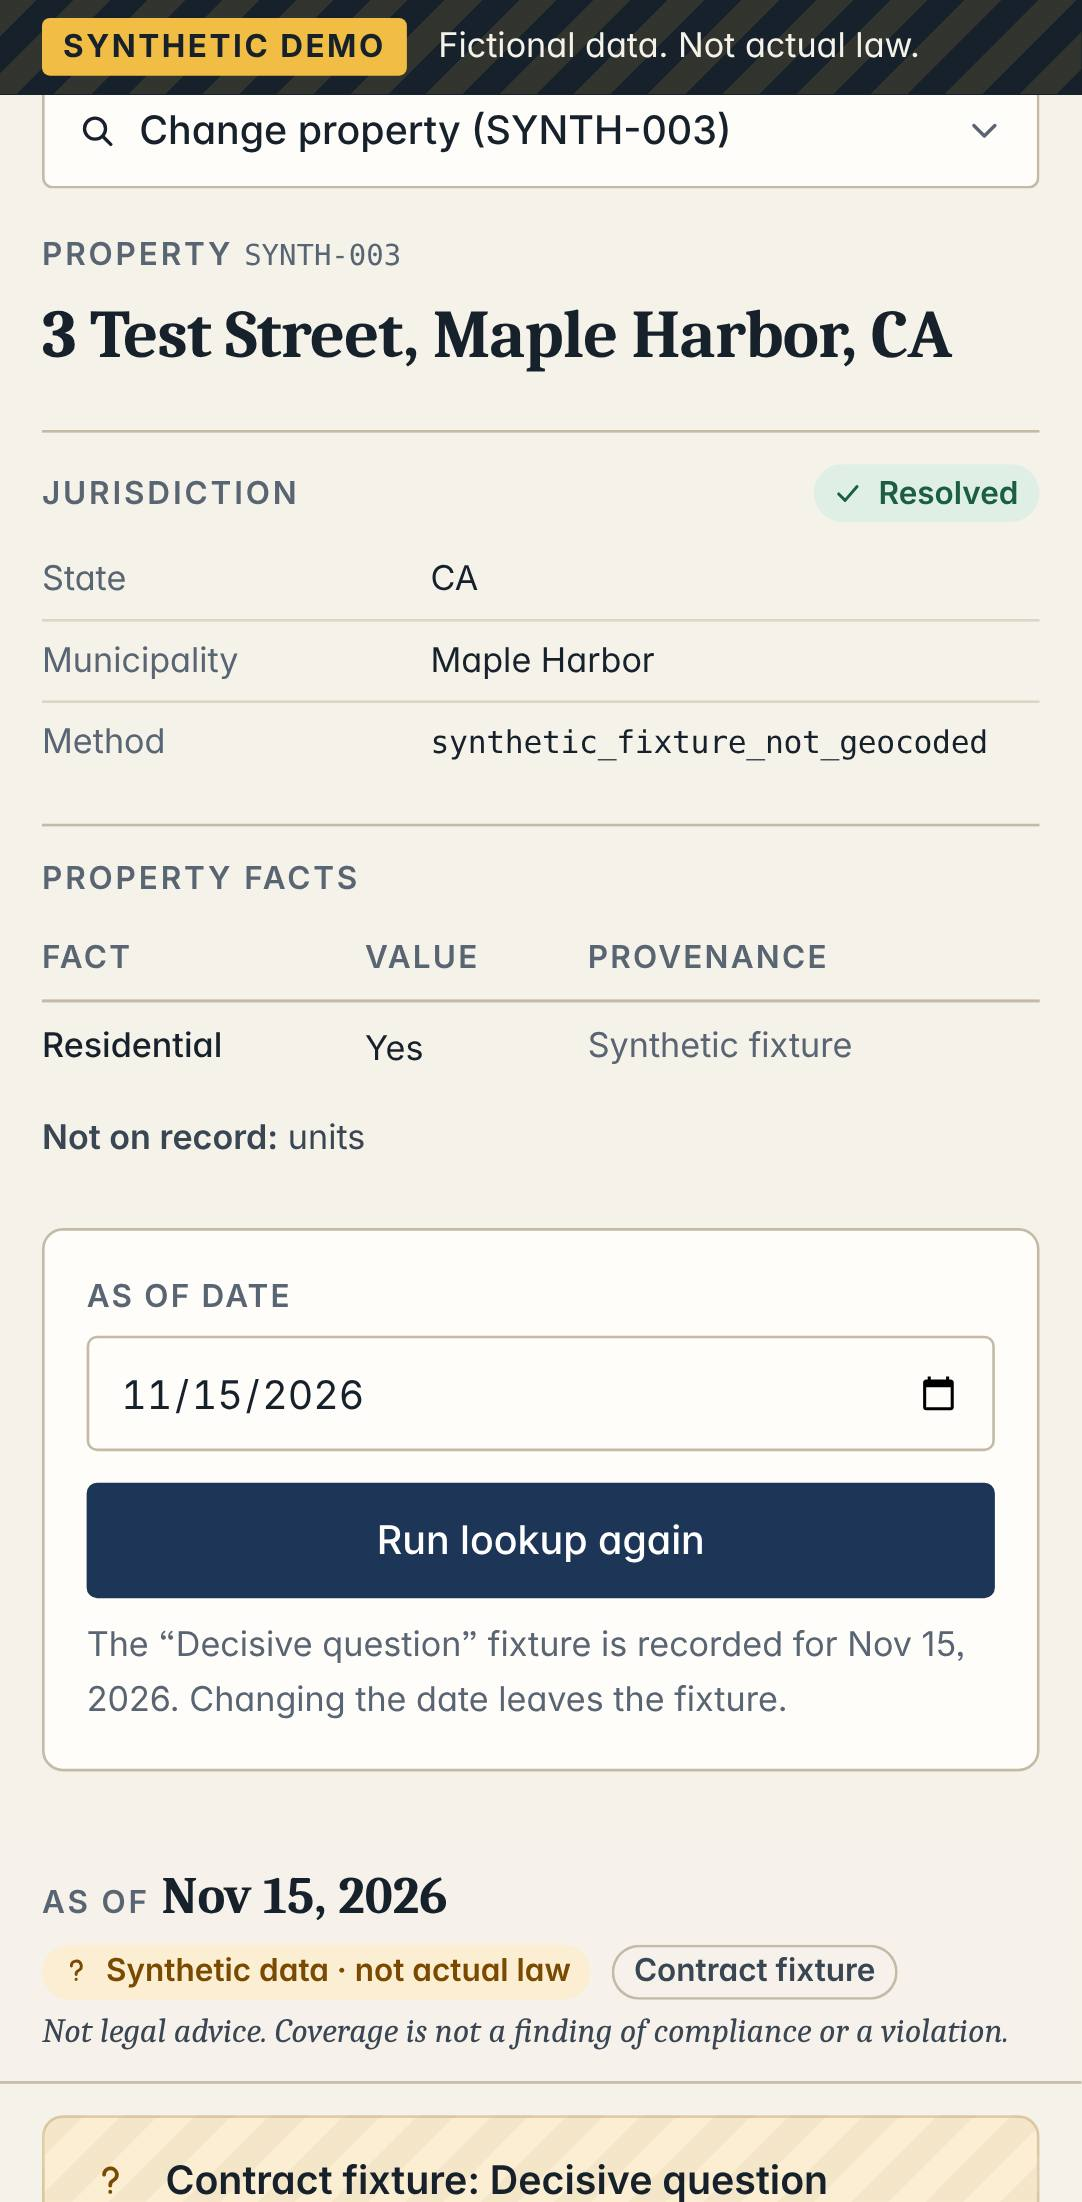
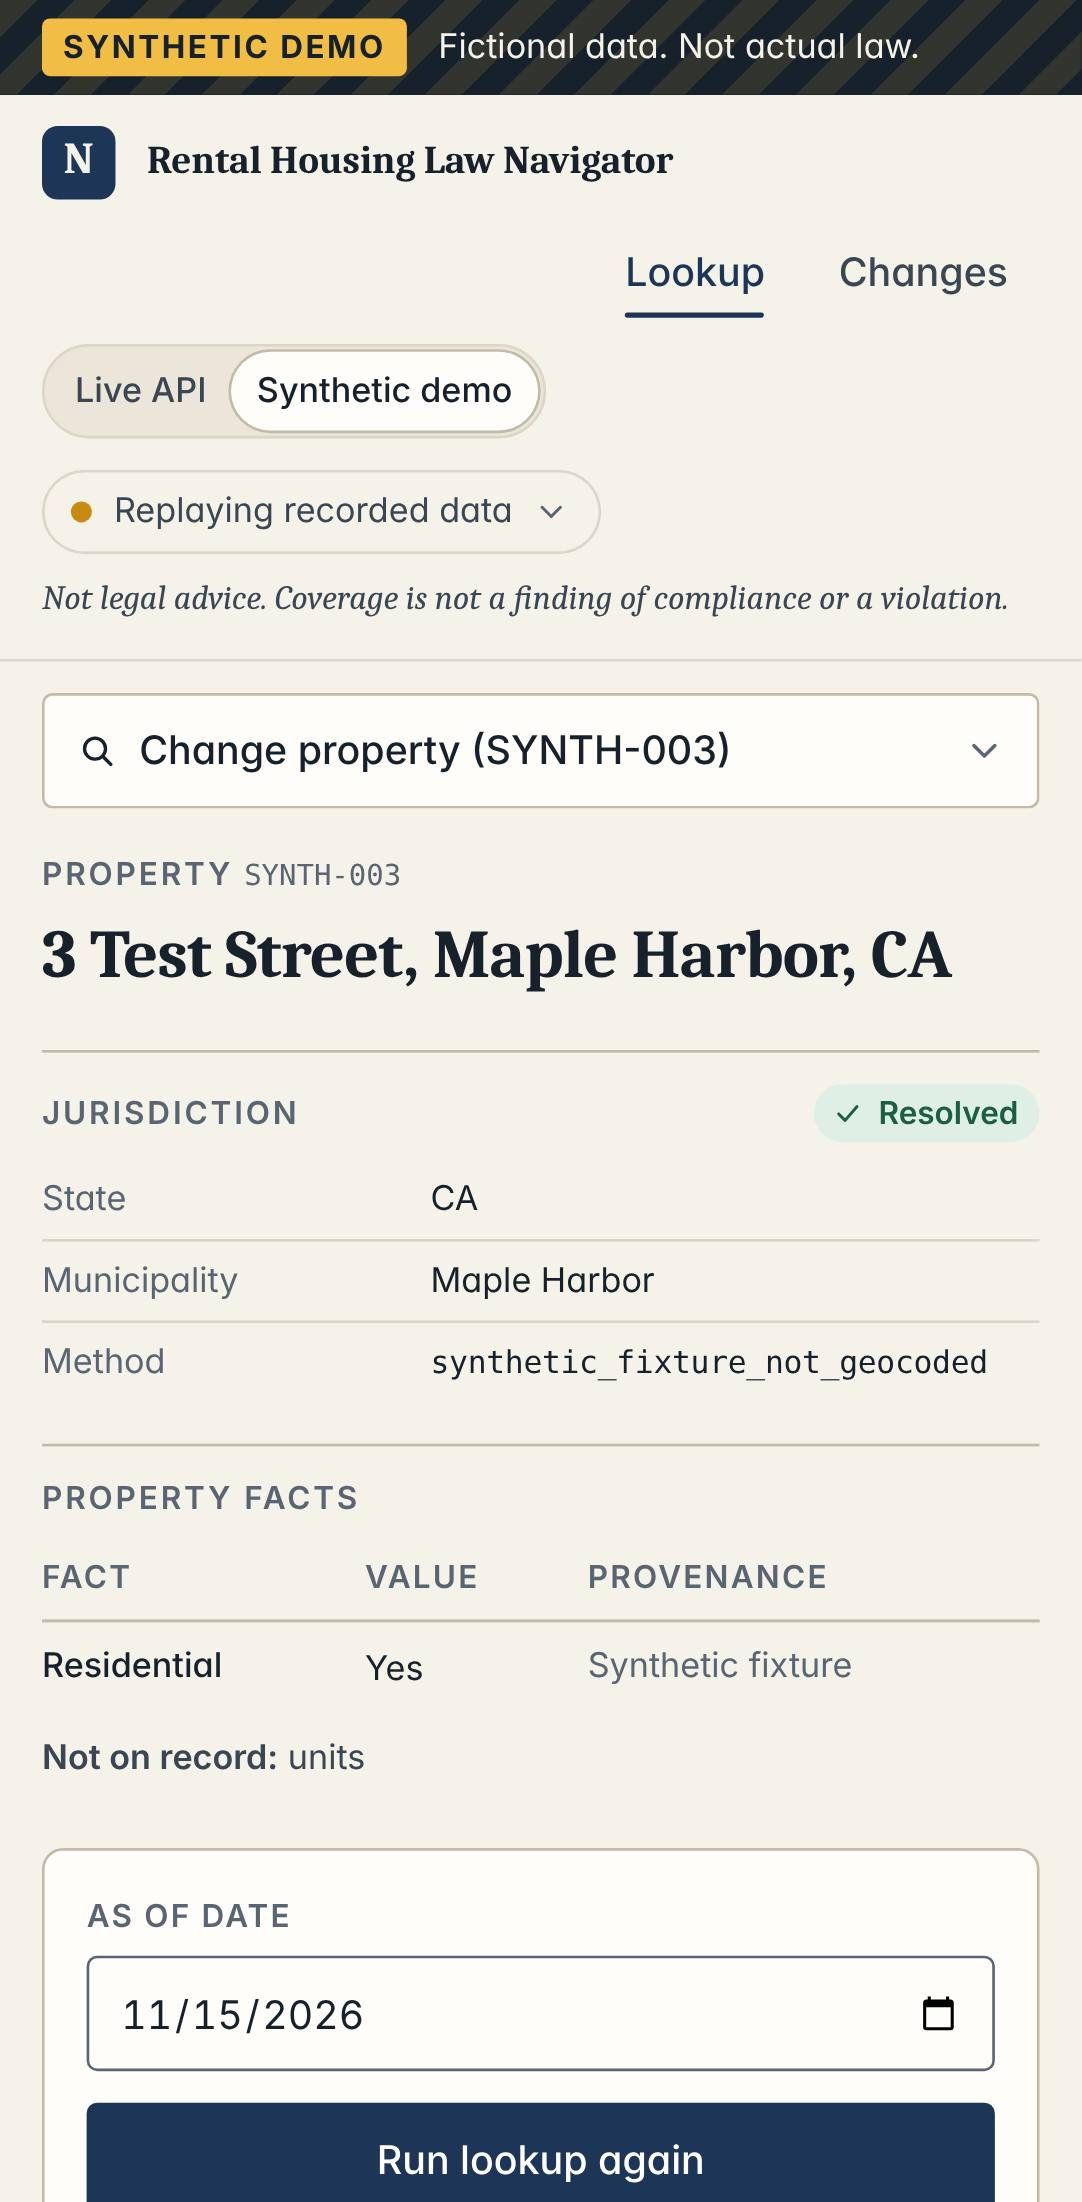
Keep the page still when a property is chosen; note the hosted preview
- Selecting a property or fixture focuses the result area without
  scrolling when it is already on screen (it still scrolls into view on
  narrow layouts where the property list sits above it).
- URL parameter updates tolerate embedded frames that refuse history
  changes.
- UX-03 card: hosted demo preview and re-run results.

Claude-Session: https://claude.ai/code/session_01MgdKqN9bg34wq8ZJGQMRq2

diff --git a/frontend/src/features/lookup/LookupView.tsx b/frontend/src/features/lookup/LookupView.tsx
@@ -78,17 +78,27 @@ export function LookupView({ mode, initial, onParams, onSwitchToDemo }: Props) {
     // eslint-disable-next-line react-hooks/exhaustive-deps
   }, [outcome]);
 
+  // Move focus to the result area without jumping the page; scroll only if it is off screen
+  // (on narrow screens the property list sits above it).
+  const revealMain = () => {
+    const main = mainRef.current;
+    if (!main) return;
+    main.focus({ preventScroll: true });
+    const top = main.getBoundingClientRect().top;
+    if (top < 0 || top > window.innerHeight * 0.6) main.scrollIntoView({ block: 'start' });
+  };
+
   const choose = (item: AddressItem) => {
     setInspecting(null);
     setFinderOpen(false);
     session.select(item);
-    window.requestAnimationFrame(() => mainRef.current?.focus());
+    window.requestAnimationFrame(revealMain);
   };
   const chooseCase = (item: AddressItem, fixtureCase: FixtureCaseSummary) => {
     setInspecting(null);
     setFinderOpen(false);
     session.selectCase(item, fixtureCase);
-    window.requestAnimationFrame(() => mainRef.current?.focus());
+    window.requestAnimationFrame(revealMain);
   };
 
   const relatedCases = state.selection && !state.fixtureCase && outcome ? (catalog?.cases.filter((candidate) => candidate.address_id === outcome.query.address_id && candidate.as_of === outcome.query.as_of) ?? []) : [];

diff --git a/frontend/src/state/route.ts b/frontend/src/state/route.ts
@@ -40,7 +40,12 @@ export function useRoute(): { route: Route; go: (view: View, params?: Record<str
   const replaceParams = useCallback((params: Record<string, string | null | undefined>) => {
     const current = parseHash(window.location.hash);
     const next = buildHash(current.view, params);
-    if (next !== window.location.hash) window.history.replaceState(null, '', next);
+    if (next === window.location.hash) return;
+    try {
+      window.history.replaceState(null, '', next);
+    } catch {
+      // Some embedded frames refuse history changes; the URL then simply stays as it was.
+    }
   }, []);
   return { route, go, replaceParams };
 }

diff --git a/frontend/src/styles/app.css b/frontend/src/styles/app.css
@@ -1223,6 +1223,10 @@ select.input {
   outline: none;
 }
 
+.workspace__main {
+  scroll-margin-top: calc(var(--banner-h) + var(--s-2));
+}
+
 .finder-toggle {
   display: none;
 }

diff --git a/docs/tasks/UX-03.md b/docs/tasks/UX-03.md
@@ -93,6 +93,13 @@ normal/empty/unknown examples and the contract default date; date comparison, bl
 503, 404, 422, 502, contract mismatch and drift, transport retry, partial data, unresolved jurisdiction, every rule state;
 keyboard path, focus return, modal focus trap, no horizontal scroll.
 
+Preview: a hosted, demo-only build of the same sources (synthetic mode; live mode disabled there because it cannot reach a
+backend) is published as a private Claude artifact owned by Oliver: https://claude.ai/artifact/XcxcUmdfuXwsdQmxXsVdJy
+(visible to others only after he shares it). Local preview: `npm run dev` or `npm run dev:demo` in `frontend/`.
+
+Follow-up commit after `60bb34f`: selecting a property no longer scrolls the page when the result area is already on screen,
+and URL updates tolerate frames that refuse history changes. The unit and Playwright suites were re-run with the same results.
+
 To complete verification on a machine with registry access, in `frontend/`:
 
     npm install && npm run verify && npx playwright install chromium && npm run test:e2e
